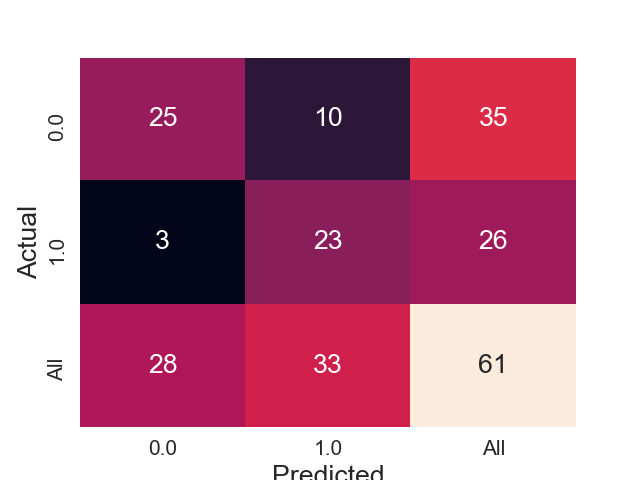
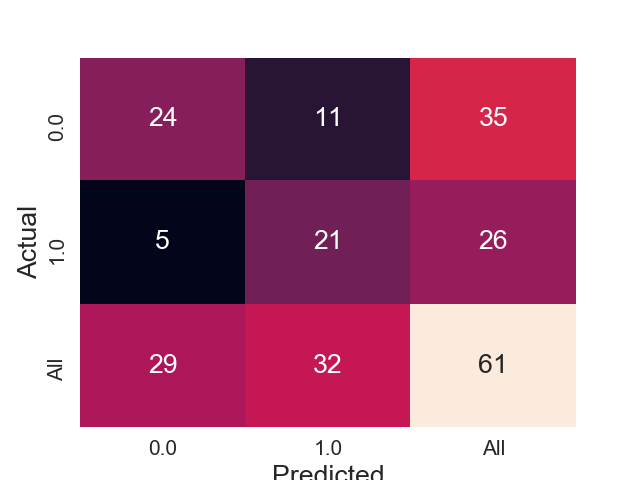
Added accuracy results
Also changed variable RandomForest to randomForest

diff --git a/main.py b/main.py
@@ -38,8 +38,8 @@ def sensitivityAndSpecificity(y_true, y_pred):
     return sensitivity, specificity
 
 # dataframes for presenting results
-trainingResults = pd.DataFrame(index = ['sensitivity', 'specificity'])
-testResults = pd.DataFrame(index = ['sensitivity', 'specificity'])
+trainingResults = pd.DataFrame(index = ['accuracy','sensitivity', 'specificity'])
+testResults = pd.DataFrame(index = ['accuracy','sensitivity', 'specificity'])
 
 def addToTrainingD(method):
     sensitivity, specificity = sensitivityAndSpecificity(y_train, method.predict(x_train))
@@ -52,10 +52,10 @@ def plotRFconvergence():
     specificity = np.zeros(n)
     x = np.linspace(1, n, n)
     for i in range(n):
-        RandomForest = RandomForestClassifier(n_estimators=i+1)
-        RandomForest.fit(x_train, y_train)
+        randomForest = RandomForestClassifier(n_estimators=i+1)
+        randomForest.fit(x_train, y_train)
         sensitivity[i], specificity[i] = sensitivityAndSpecificity(
-            y_test, RandomForest.predict(x_test))
+            y_test, randomForest.predict(x_test))
     fig = plt.figure()
     plt.plot(x, sensitivity, label='sensitivity')
     plt.plot(x, specificity, label='specificity')
@@ -76,15 +76,13 @@ dTree = DecisionTreeClassifier()
 
 dTree.fit(x_train, y_train)
 
-sensitivity, specificity = sensitivityAndSpecificity(
-    y_train, dTree.predict(x_train))
-trainingResults['Decision Tree'] = np.array(
-    [sensitivity, specificity], dtype=np.float32)
+accuracy = dTree.score(x_train, y_train)
+sensitivity, specificity = sensitivityAndSpecificity( y_train, dTree.predict(x_train))
+trainingResults['Decision Tree'] = np.array([accuracy, sensitivity, specificity], dtype=np.float32)
 
-sensitivity, specificity = sensitivityAndSpecificity(
-    y_test, dTree.predict(x_test))
-testResults['Decision Tree'] = np.array(
-    [sensitivity, specificity], dtype=np.float32)
+accuracy = dTree.score(x_test,y_test)
+sensitivity, specificity = sensitivityAndSpecificity(y_test, dTree.predict(x_test))
+testResults['Decision Tree'] = np.array([accuracy,sensitivity, specificity], dtype=np.float32)
 
 fpr_dt, tpr_dt, _ = roc_curve(y_test, dTree.predict_proba(x_test)[:, 1])
 
@@ -93,25 +91,23 @@ predDT = dTree.predict(x_test)
 
 # ---------------------------- Random Forest Classifier (Bagging) -------------------------------------------
 
-RandomForest = RandomForestClassifier(n_estimators = 50)
-RandomForest.fit(x_train,y_train)
+randomForest = RandomForestClassifier(n_estimators = 50)
+randomForest.fit(x_train,y_train)
 
-sensitivity, specificity = sensitivityAndSpecificity(
-    y_train, RandomForest.predict(x_train))
-trainingResults['Random Forest'] = np.array(
-    [sensitivity, specificity], dtype=np.float32)
+accuracy = randomForest.score(x_train, y_train)
+sensitivity, specificity = sensitivityAndSpecificity(y_train, randomForest.predict(x_train))
+trainingResults['Random Forest'] = np.array([accuracy,sensitivity, specificity], dtype=np.float32)
 
-sensitivity, specificity = sensitivityAndSpecificity(
-    y_test, RandomForest.predict(x_test))
-testResults['Random Forest'] = np.array(
-    [sensitivity, specificity], dtype=np.float32)
+accuracy = randomForest.score(x_test,y_test)
+sensitivity, specificity = sensitivityAndSpecificity(y_test, randomForest.predict(x_test))
+testResults['Random Forest'] = np.array([accuracy, sensitivity, specificity], dtype=np.float32)
 
-fpr_rf, tpr_rf, _ = roc_curve(y_test, RandomForest.predict_proba(x_test)[:, 1])
+fpr_rf, tpr_rf, _ = roc_curve(y_test, randomForest.predict_proba(x_test)[:, 1])
 
-predRF = RandomForest.predict(x_test)
+predRF = randomForest.predict(x_test)
 
 # ------------------------- Bagging (w/ decision trees) -------------------------------------------------
-
+"""
 Bagging = BaggingClassifier(DecisionTreeClassifier(), max_samples=0.5, max_features=1.0, n_estimators=50)
 # NOTE: bad results. needs tuning
 Bagging.fit(x_train, y_train)
@@ -129,20 +125,19 @@ fpr_b, tpr_b, _ = roc_curve(y_test, Bagging.predict_proba(x_test)[:, 1])
 
 predBag = Bagging.predict(x_test) 
 
+"""
 # AdaBoost (Boosting) ----------------------------------------------------------
 
 ada = AdaBoostClassifier(n_estimators=60, learning_rate=1)
 ada.fit(x_train, y_train)
 
-sensitivity, specificity = sensitivityAndSpecificity(
-    y_train, ada.predict(x_train))
-trainingResults['AdaBoost'] = np.array(
-    [sensitivity, specificity], dtype=np.float32)
+accuracy = ada.score(x_train, y_train)
+sensitivity, specificity = sensitivityAndSpecificity(y_train, ada.predict(x_train))
+trainingResults['AdaBoost'] = np.array([accuracy, sensitivity, specificity], dtype=np.float32)
 
-sensitivity, specificity = sensitivityAndSpecificity(
-    y_test, ada.predict(x_test))
-testResults['AdaBoost'] = np.array(
-    [sensitivity, specificity], dtype=np.float32)
+accuracy = ada.score(x_test, y_test)
+sensitivity, specificity = sensitivityAndSpecificity(y_test, ada.predict(x_test))
+testResults['AdaBoost'] = np.array([accuracy, sensitivity, specificity], dtype=np.float32)
 
 fpr_ab, tpr_ab, _ = roc_curve(y_test, ada.predict_proba(x_test)[:, 1])
 
@@ -172,6 +167,7 @@ testResults['Voting'] = np.array([sensitivity, specificity], dtype=np.float32)
 # run functions ------------------
 
 # Formate and print results 
+
 trainingResults = trainingResults.T
 testResults = testResults.T
 
@@ -205,7 +201,7 @@ def rocPlot():
     plt.plot([0, 1], [0, 1], 'k--')
     plt.plot(fpr_dt, tpr_dt, label='DT (area = %0.2f)' % auc(fpr_dt, tpr_dt))
     plt.plot(fpr_rf, tpr_rf, label='RF(area = %0.2f)' % auc(fpr_rf, tpr_rf))
-    plt.plot(fpr_b, tpr_b, label='Bagging (area = %0.2f)' % auc(fpr_b, tpr_b))
+    #plt.plot(fpr_b, tpr_b, label='Bagging (area = %0.2f)' % auc(fpr_b, tpr_b))
     plt.plot(fpr_ab, tpr_ab, label='AdaBoost(area = %0.2f)' % auc(fpr_ab, tpr_ab))
     plt.xlabel('False positive rate')
     plt.ylabel('True positive rate')
@@ -240,8 +236,8 @@ def confM(true_y, pred_y):
     #figmat.savefig('data/confusionMatrix.png')
     
 
-figBag = confM(y_test,predBag)
-figBag.savefig('data/confusionMatrixBagging.png')
+#figBag = confM(y_test,predBag)
+#figBag.savefig('data/confusionMatrixBagging.png')
 
 figAda = confM(y_test,predAda)
 figAda.savefig('data/confusionMatrixAda.png')
